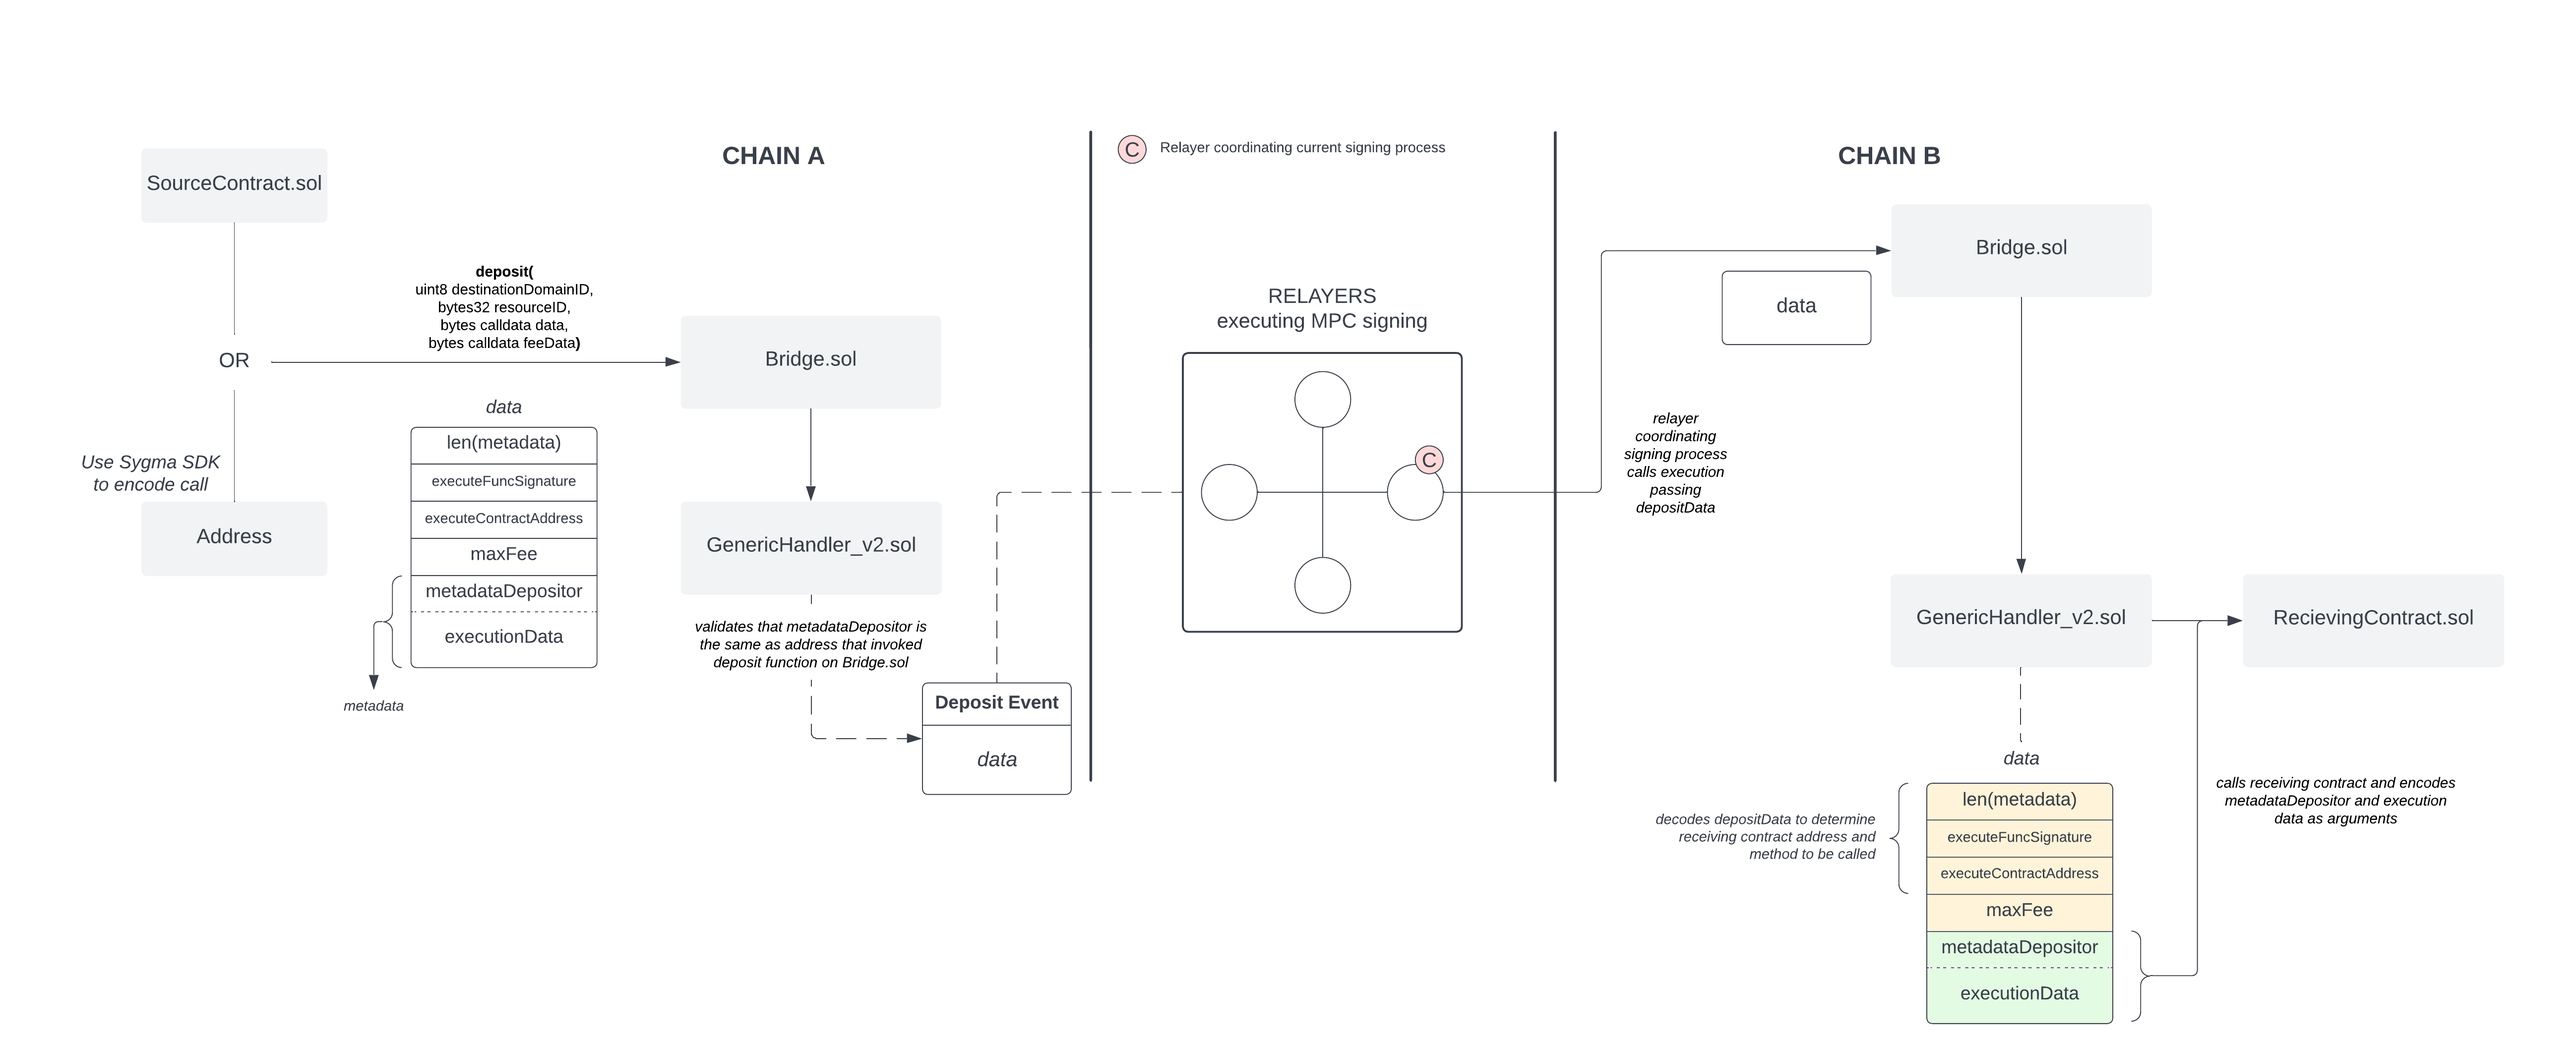
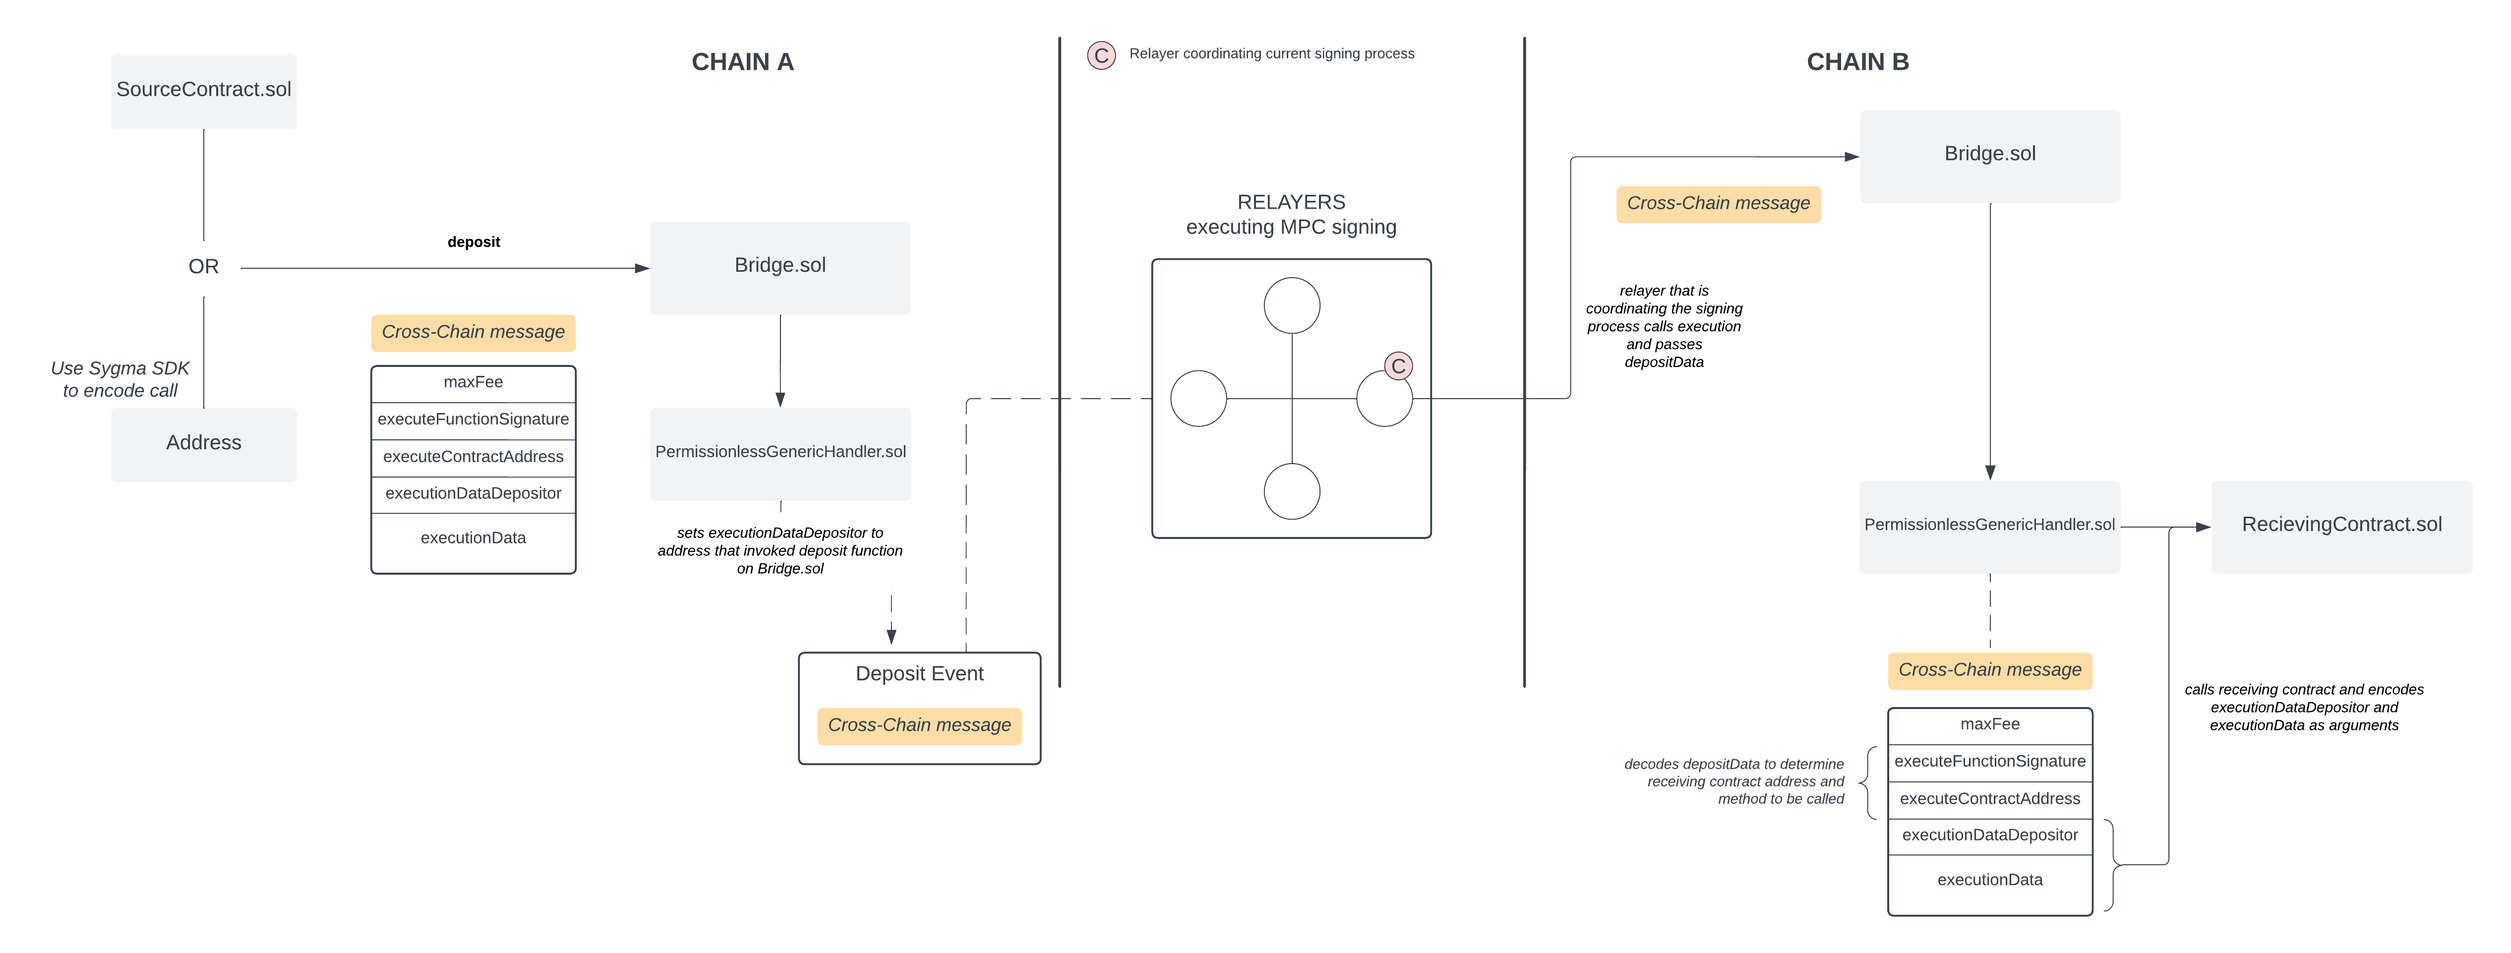
remove outdated information on gmp

diff --git a/architecture/generic.md b/architecture/generic.md
@@ -10,30 +10,20 @@ description: The following details how Generic message passing is handled by Syg
 
 **Glossary:**
 
-- **data**: encoded data passed as an argument on a deposit function call - holds all information on cross-chain call
-    - **metadata depositor**: address that executed deposit on source chain (this address is validated when executing deposit on source chain). First 32 bytes of metadata.
-    - **execution data**: arbitrary data being passed as an argument when calling the receiving contract on the destination chain.
-    - **metadata**: metadata depositor + execution data
-- **receiving contract**: a contract that is being called on the destination chain when executing the cross-chain call
-- **receiving function**: function of the **receiving contract** that is called on the destination chain
-- **source contract**: a contract that invoked deposit on source chain (in this case, address contract would be metadata depositor). The deposit function can also be called by a specific user; in this case, there is no source contract, but the user address is a metadata depositor.
+- **Cross-Chain message**: encoded data passed as an argument on a deposit function call - holds all information on cross-chain call
+- **Receiving contract**: a contract that is being called on the destination chain when executing the cross-chain call
+- **Receiving function**: function of the **receiving contract** that is called on the destination chain
+- **Source contract**: a contract that invoked deposit on source chain (in this case, address contract would be metadata depositor). The deposit function can also be called by a specific user; in this case, there is no source contract, but the user address is a metadata depositor.
 
 ## Usage guide
 
-On the source network EOA or contract can call [deposit function](https://github.com/sygmaprotocol/sygma-solidity/blob/master/contracts/Bridge.sol#L259).
+On the source network EOA or contract can call [deposit function](https://github.com/sygmaprotocol/sygma-solidity/blob/master/contracts/Bridge.sol#L235).
 
-`calldata data` is necessary execution information on destination chain and should follow next format
+When calling deposit on source network, `depositData` is necessary execution information on destination chain and should follow next format:
 
-```
-len(metaData):             uint256                        bytes 0   - 32
-executeFuntionSignature:   bytes4    padded to 32 bytes   bytes 32  - 64
-executeContractAddress     address   padded to 32 bytes   bytes 64  - 96
-maxFee:                    uint256                        bytes 96  - 128
-------------------------- metaData -------------------------
-metadataDepositor:         address   padded to 32 bytes   bytes 128 - 160
-executionData:             bytes               
-```
-On the source netowrk Bridge contract checks that metadataDepositor == msg.sender, hence this allow destination network contract to authorise the call.
+![Sygma GMP message format](../.gitbook/assets/gmp-message-format.png)
+
+On the source network Bridge contract sets **msg.sender** as **executionDataDepositor**, hence this allows destination network contract to authorise the call.
 
 The only interface that  developers should follow is the signature of **receiving function** it should always has first param to be an address of metadataDepositor
 
